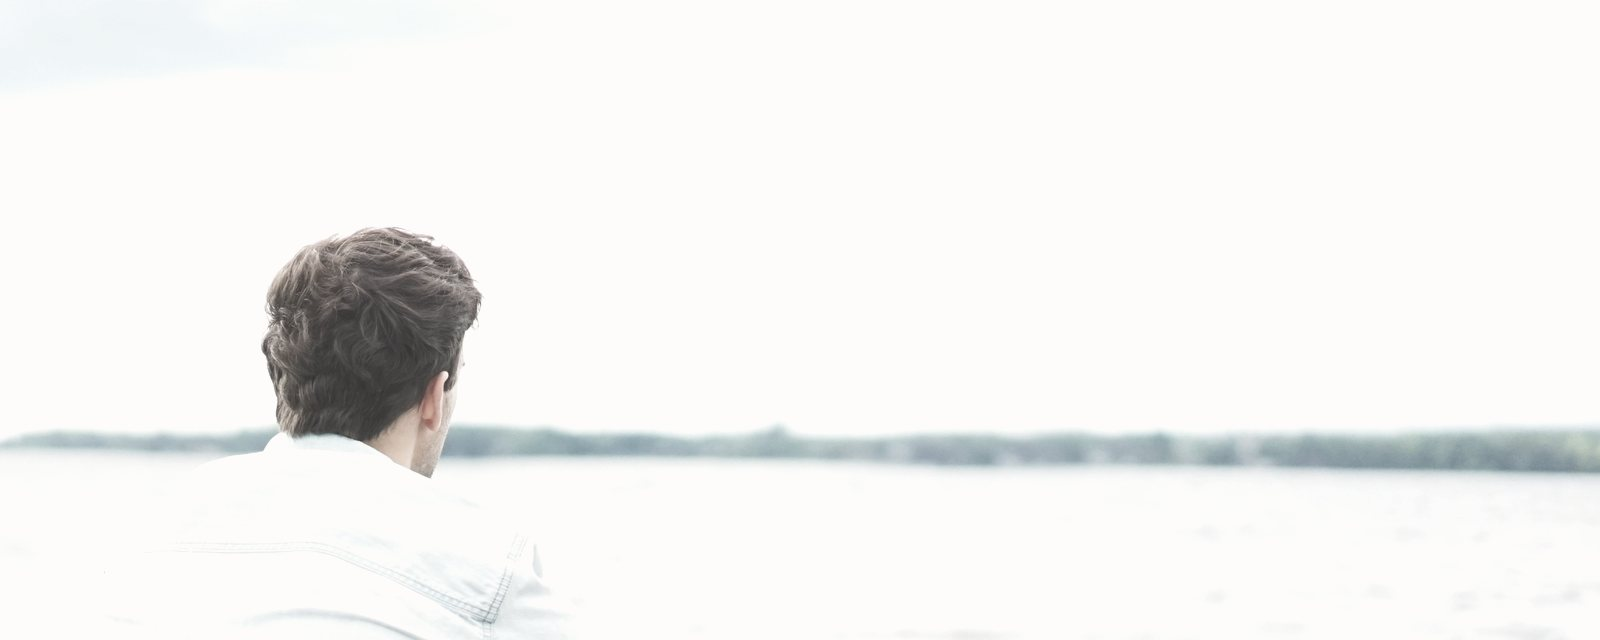
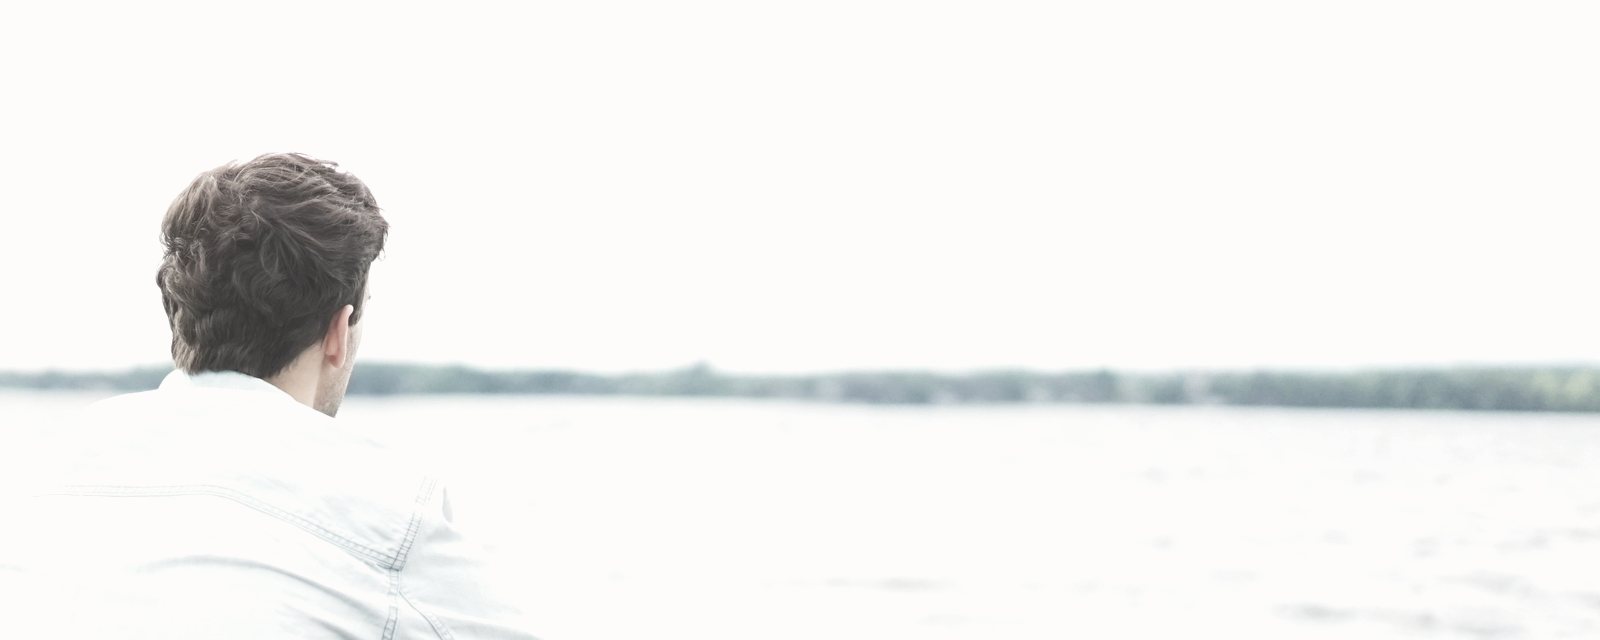
Glava gore i lijevo u zavrsnoj traci Sigurnog prostora (v=121)

diff --git a/style.css b/style.css
@@ -565,5 +565,5 @@ details.fold .fold-body{margin-top:16px;}
 em{font-style:normal;}
 .icon-grid.plain .ig{background:none;border:none;box-shadow:none;padding:12px 6px;}
 .icon-grid.plain .ig:hover{transform:none;box-shadow:none;}
-.quote-band.qb-sp{background-image:url('img/zavrsna-sp.jpg');background-position:left center;}
+.quote-band.qb-sp{background-image:url('img/zavrsna-sp.jpg?2');background-position:left center;}
 .quote-band.qb-sp h2{margin-bottom:34px;}

diff --git a/blog.html b/blog.html
@@ -7,7 +7,7 @@
 <link rel="preconnect" href="https://fonts.googleapis.com">
 <link rel="preconnect" href="https://fonts.gstatic.com" crossorigin>
 <link href="https://fonts.googleapis.com/css2?family=Lora:ital,wght@0,400;0,500;0,600;0,700;1,400&family=Open+Sans:wght@300;400;500;600;700&display=swap" rel="stylesheet">
-<link rel="stylesheet" href="style.css?v=120">
+<link rel="stylesheet" href="style.css?v=121">
 </head>
 <body class="fw">
 

diff --git a/faq.html b/faq.html
@@ -7,7 +7,7 @@
 <link rel="preconnect" href="https://fonts.googleapis.com">
 <link rel="preconnect" href="https://fonts.gstatic.com" crossorigin>
 <link href="https://fonts.googleapis.com/css2?family=Lora:ital,wght@0,400;0,500;0,600;0,700;1,400&family=Open+Sans:wght@300;400;500;600;700&display=swap" rel="stylesheet">
-<link rel="stylesheet" href="style.css?v=120">
+<link rel="stylesheet" href="style.css?v=121">
 </head>
 <body class="fw">
 

diff --git a/index.html b/index.html
@@ -7,7 +7,7 @@
 <link rel="preconnect" href="https://fonts.googleapis.com">
 <link rel="preconnect" href="https://fonts.gstatic.com" crossorigin>
 <link href="https://fonts.googleapis.com/css2?family=Lora:ital,wght@0,400;0,500;0,600;0,700;1,400&family=Open+Sans:wght@300;400;500;600;700&display=swap" rel="stylesheet">
-<link rel="stylesheet" href="style.css?v=120">
+<link rel="stylesheet" href="style.css?v=121">
 </head>
 <body class="fw">
 

diff --git a/kolacici.html b/kolacici.html
@@ -7,7 +7,7 @@
 <link rel="preconnect" href="https://fonts.googleapis.com">
 <link rel="preconnect" href="https://fonts.gstatic.com" crossorigin>
 <link href="https://fonts.googleapis.com/css2?family=Lora:ital,wght@0,400;0,500;0,600;0,700;1,400&family=Open+Sans:wght@300;400;500;600;700&display=swap" rel="stylesheet">
-<link rel="stylesheet" href="style.css?v=120">
+<link rel="stylesheet" href="style.css?v=121">
 </head>
 <body class="fw">
 

diff --git a/konstelacije.html b/konstelacije.html
@@ -7,7 +7,7 @@
 <link rel="preconnect" href="https://fonts.googleapis.com">
 <link rel="preconnect" href="https://fonts.gstatic.com" crossorigin>
 <link href="https://fonts.googleapis.com/css2?family=Lora:ital,wght@0,400;0,500;0,600;0,700;1,400&family=Open+Sans:wght@300;400;500;600;700&display=swap" rel="stylesheet">
-<link rel="stylesheet" href="style.css?v=120">
+<link rel="stylesheet" href="style.css?v=121">
 </head>
 <body class="fw">
 

diff --git a/kontakt.html b/kontakt.html
@@ -7,7 +7,7 @@
 <link rel="preconnect" href="https://fonts.googleapis.com">
 <link rel="preconnect" href="https://fonts.gstatic.com" crossorigin>
 <link href="https://fonts.googleapis.com/css2?family=Lora:ital,wght@0,400;0,500;0,600;0,700;1,400&family=Open+Sans:wght@300;400;500;600;700&display=swap" rel="stylesheet">
-<link rel="stylesheet" href="style.css?v=120">
+<link rel="stylesheet" href="style.css?v=121">
 </head>
 <body class="fw">
 

diff --git a/omeni.html b/omeni.html
@@ -7,7 +7,7 @@
 <link rel="preconnect" href="https://fonts.googleapis.com">
 <link rel="preconnect" href="https://fonts.gstatic.com" crossorigin>
 <link href="https://fonts.googleapis.com/css2?family=Lora:ital,wght@0,400;0,500;0,600;0,700;1,400&family=Open+Sans:wght@300;400;500;600;700&display=swap" rel="stylesheet">
-<link rel="stylesheet" href="style.css?v=120">
+<link rel="stylesheet" href="style.css?v=121">
 </head>
 <body class="fw">
 

diff --git a/portal.html b/portal.html
@@ -7,7 +7,7 @@
 <link rel="preconnect" href="https://fonts.googleapis.com">
 <link rel="preconnect" href="https://fonts.gstatic.com" crossorigin>
 <link href="https://fonts.googleapis.com/css2?family=Lora:ital,wght@0,400;0,500;0,600;0,700;1,400&family=Open+Sans:wght@300;400;500;600;700&display=swap" rel="stylesheet">
-<link rel="stylesheet" href="style.css?v=120">
+<link rel="stylesheet" href="style.css?v=121">
 </head>
 <body class="fw">
 

diff --git a/post.html b/post.html
@@ -7,7 +7,7 @@
 <link rel="preconnect" href="https://fonts.googleapis.com">
 <link rel="preconnect" href="https://fonts.gstatic.com" crossorigin>
 <link href="https://fonts.googleapis.com/css2?family=Lora:ital,wght@0,400;0,500;0,600;0,700;1,400&family=Open+Sans:wght@300;400;500;600;700&display=swap" rel="stylesheet">
-<link rel="stylesheet" href="style.css?v=120">
+<link rel="stylesheet" href="style.css?v=121">
 </head>
 <body class="fw">
 

diff --git a/privatnost.html b/privatnost.html
@@ -7,7 +7,7 @@
 <link rel="preconnect" href="https://fonts.googleapis.com">
 <link rel="preconnect" href="https://fonts.gstatic.com" crossorigin>
 <link href="https://fonts.googleapis.com/css2?family=Lora:ital,wght@0,400;0,500;0,600;0,700;1,400&family=Open+Sans:wght@300;400;500;600;700&display=swap" rel="stylesheet">
-<link rel="stylesheet" href="style.css?v=120">
+<link rel="stylesheet" href="style.css?v=121">
 </head>
 <body class="fw">
 

diff --git a/programi.html b/programi.html
@@ -7,7 +7,7 @@
 <link rel="preconnect" href="https://fonts.googleapis.com">
 <link rel="preconnect" href="https://fonts.gstatic.com" crossorigin>
 <link href="https://fonts.googleapis.com/css2?family=Lora:ital,wght@0,400;0,500;0,600;0,700;1,400&family=Open+Sans:wght@300;400;500;600;700&display=swap" rel="stylesheet">
-<link rel="stylesheet" href="style.css?v=120">
+<link rel="stylesheet" href="style.css?v=121">
 </head>
 <body class="fw">
 
